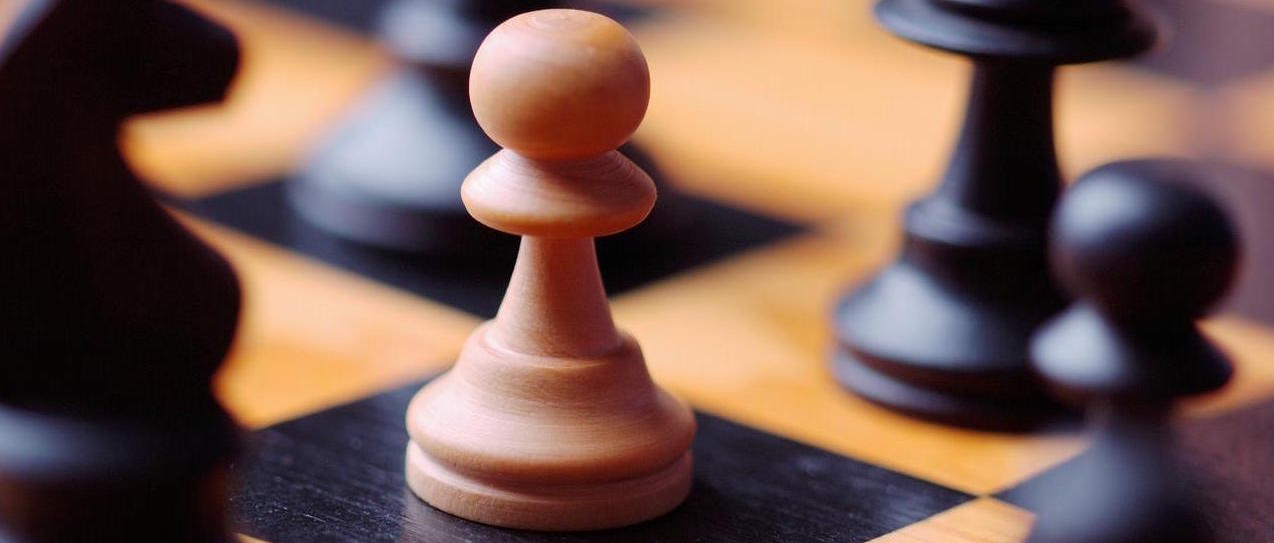
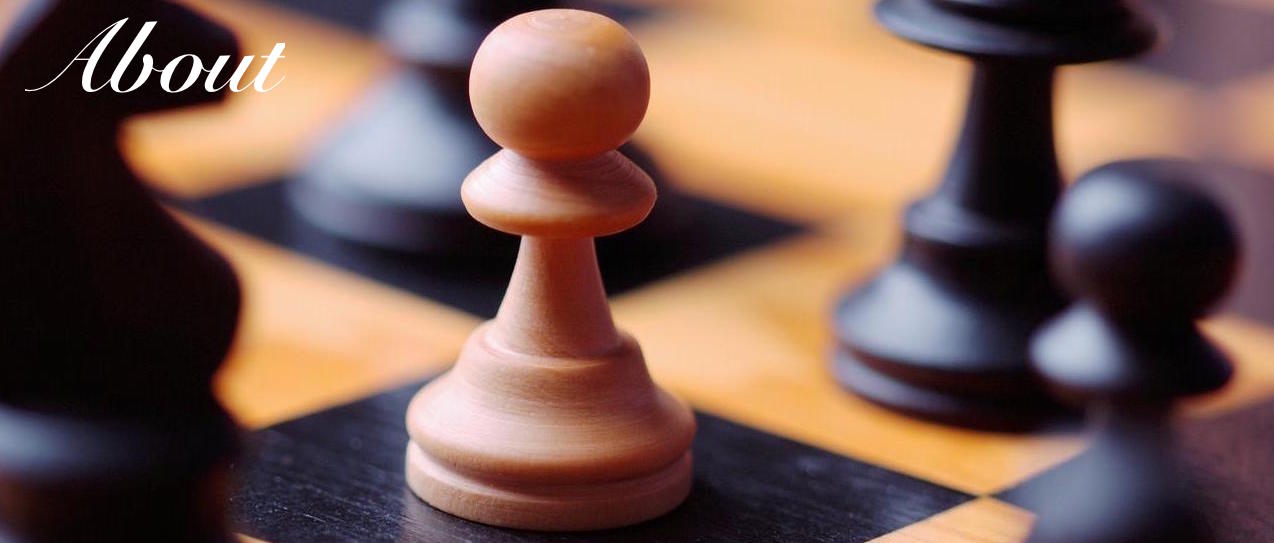
improve header image for books and about

Changed region(s): [[0.0612, 0.0295, 0.2449, 0.1768]]

diff --git a/content/books.html b/content/books.html
@@ -1,8 +1,10 @@
 +++
-title = "Books"
+title = ""
 description = "Some of my favorite Books"
 +++
 
+<img src="/img/books.jpg">
+<br>
 <div id="bookshelf"></div>
       <style type="text/css" media="screen">
         .gr_grid_container {

diff --git a/content/about.html b/content/about.html
@@ -1,5 +1,5 @@
 +++
-title = "About"
+title = ""
 description = ""
 +++
 
